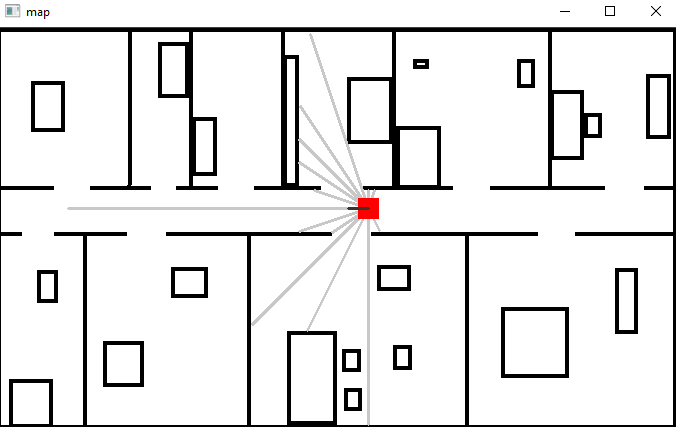
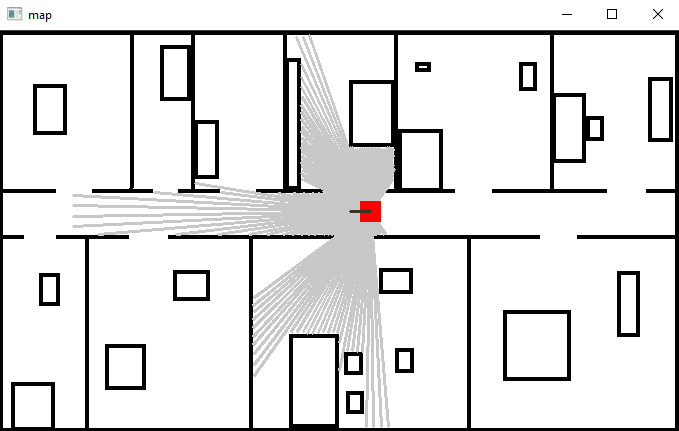
optimize the ray

diff --git a/main.py b/main.py
@@ -3,67 +3,55 @@ import cv2 as cv
 from utility import *
 from constants import *
 
+def ray_helper(map_gray, start_x, start_y, theta, x, y, step):
+    x_new = x
+    y_new = y
+    x, y = motion(start_x, start_y, theta, step * MOTION_STEP)
+    x, y = handle_map_range(map_gray, x, y)
+    step +=1
+    return x, y, x_new, y_new, step
 
 # move the ray till it collide or rich the maximum position
 def ray(map_gray, x, y, theta, end_x, end_y):
     start_x = x
     start_y = y
+    step = 1
     if y <= end_y and x <= end_x:
         while (map_gray[y][x] > THRESHOLD and y < len(map_gray) and x < len(map_gray[0])
                and calc_measurement(x, y, start_x, start_y) <= MAX_MEASURE):
-            x_new = x
-            y_new = y
-            x, y = motion(x, y, theta, MOTION_STEP)
-            x, y = handle_map_range(map_gray, x, y)
+            x, y, x_new, y_new, step = ray_helper(map_gray, start_x, start_y, theta, x, y, step)
     elif y >= end_y and x >= end_x:
         while (map_gray[y][x] > THRESHOLD and y >= 0 and x >= 0
                and calc_measurement(x, y, start_x, start_y) <= MAX_MEASURE):
-            x_new = x
-            y_new = y
-            x, y = motion(x, y, theta, MOTION_STEP)
-            x, y = handle_map_range(map_gray, x, y)
+            x, y, x_new, y_new, step = ray_helper(map_gray, start_x, start_y, theta, x, y, step)
     elif y <= end_y and x >= end_x:
         while (map_gray[y][x] > THRESHOLD and y < len(map_gray) and x >= 0
                and calc_measurement(x, y, start_x, start_y) <= MAX_MEASURE):
-            x_new = x
-            y_new = y
-            x, y = motion(x, y, theta, MOTION_STEP)
-            x, y = handle_map_range(map_gray, x, y)
+            x, y, x_new, y_new, step = ray_helper(map_gray, start_x, start_y, theta, x, y, step)
     elif y >= end_y and x <= end_x:
         while (map_gray[y][x] > THRESHOLD and y >= 0 and x < len(map_gray[0])
                and calc_measurement(x, y, start_x, start_y) <= MAX_MEASURE):
-            x_new = x
-            y_new = y
-            x, y = motion(x, y, theta, MOTION_STEP)
-            x, y = handle_map_range(map_gray, x, y)
+            x, y, x_new, y_new, step = ray_helper(map_gray, start_x, start_y, theta, x, y, step)
     elif y <= end_y and x == end_x:
         x_new = x
         while (map_gray[y][x] < THRESHOLD and y < len(map_gray)
                and calc_measurement(x, y, start_x, start_y) <= MAX_MEASURE):
-            y_new = y
-            _, y = motion(x, y, theta, MOTION_STEP)
-            _, y = handle_map_range(map_gray, x, y)
+            _, y, _, y_new, step = ray_helper(map_gray, start_x, start_y, theta, x, y, step)
     elif y >= end_y and x == end_x:
         x_new = x
         while (map_gray[y][x] < THRESHOLD and y >= 0
                and calc_measurement(x, y, start_x, start_y) <= MAX_MEASURE):
-            y_new = y
-            _, y = motion(x, y, theta, MOTION_STEP)
-            _, y = handle_map_range(map_gray, x, y)
+            _, y, _, y_new, step = ray_helper(map_gray, start_x, start_y, theta, x, y, step)
     elif y == end_y and x >= end_x:
         y_new = y
         while (map_gray[y][x] < THRESHOLD and x >= 0
                and calc_measurement(x, y, start_x, start_y) <= MAX_MEASURE):
-            x_new = x
-            x, _ = motion(x, y, theta, MOTION_STEP)
-            x, _ = handle_map_range(map_gray, x, y)
+            x, _, x_new, _, step = ray_helper(map_gray, start_x, start_y, theta, x, y, step)
     elif y == end_y and x <= end_x:
         y_new = y
         while (map_gray[y][x] < THRESHOLD and x > len(map_gray[0])
                and calc_measurement(x, y, start_x, start_y) <= MAX_MEASURE):
-            x_new = x
-            x, _ = motion(x, y, theta, MOTION_STEP)
-            x, _ = handle_map_range(map_gray, x, y)
+            x, _, x_new, _, step = ray_helper(map_gray, start_x, start_y, theta, x, y, step)
     return x_new, y_new
 
 
